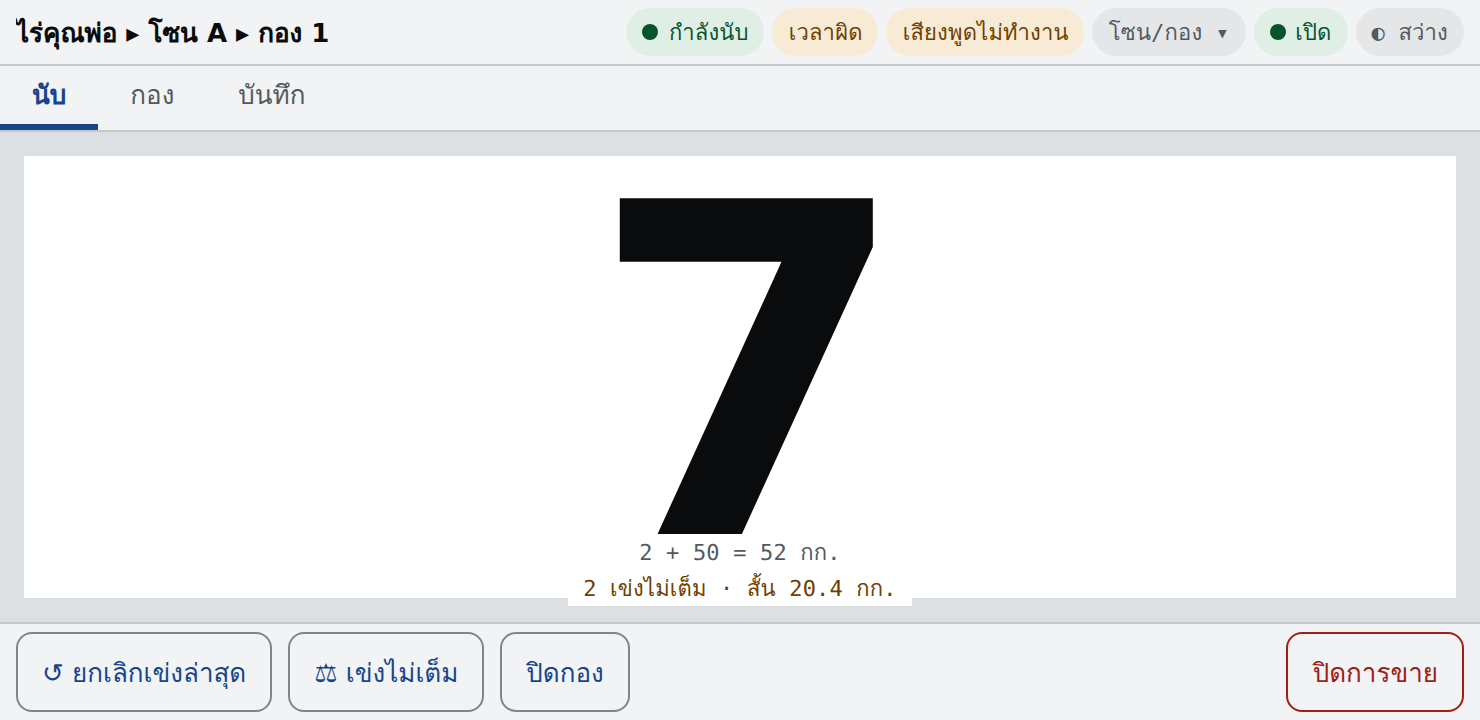
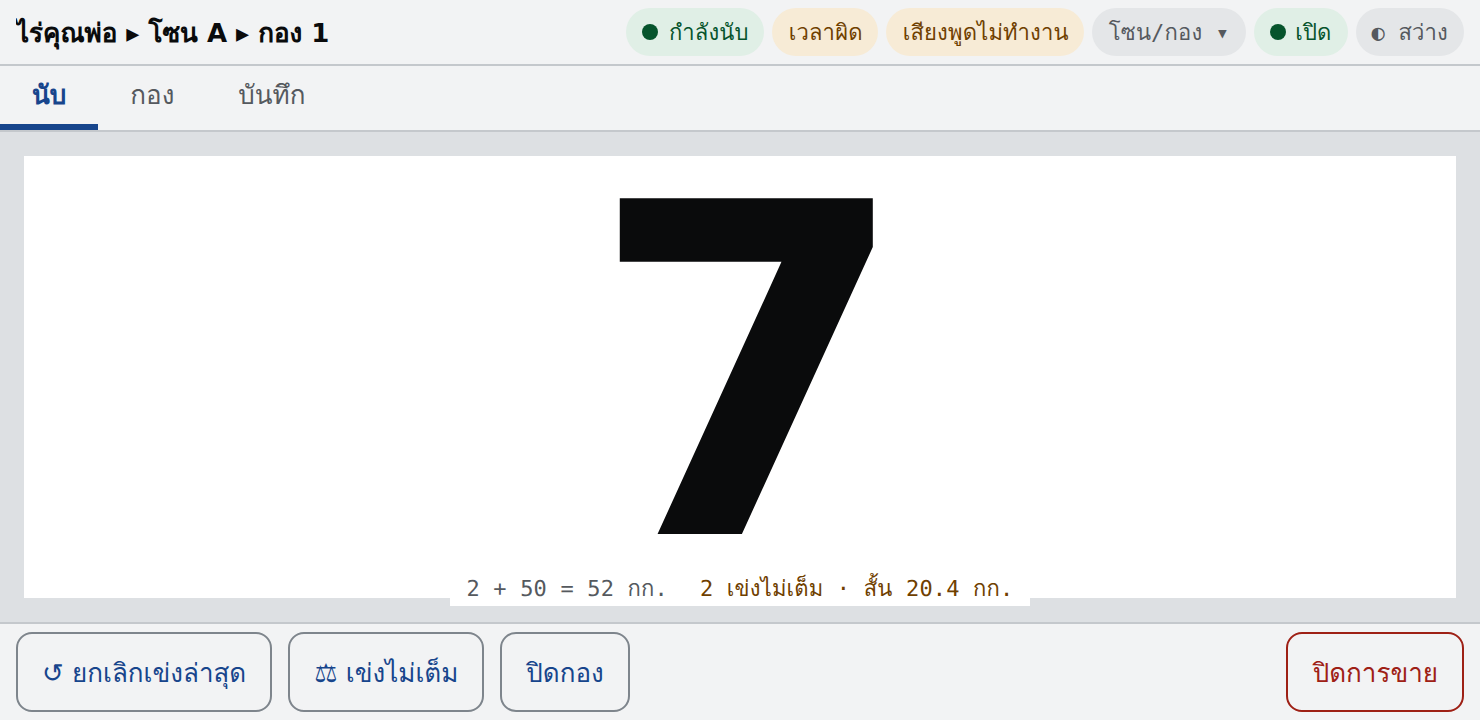
Keep the register clear of the public numeral
S22, review finding 1. The register strip sat under the caption, so a
second line ate the gap the numeral relies on rather than making room:
clearance to the numeral's ink fell to zero on a phone and went negative
on the low-end floor, while the numeral's own box never moved — which is
why the existing assertion could not see it.

The short figure now sits beside the caption on the same row. The strip
stays one line tall, so the gap is constant however many figures the
caller puts in it, and the numeral is not resized.

The new e2e assertion measures ink-to-register clearance at both phone
viewports and fails on the old layout.

Claude-Session: https://claude.ai/code/session_01XKcH1ASugu4kJm8z2HTGJh

Changed region(s): [[0.3108, 0.7639, 0.7149, 0.8556]]

diff --git a/e2e/short-basket.spec.ts b/e2e/short-basket.spec.ts
@@ -1,5 +1,6 @@
 import { expect, test } from '@playwright/test';
 
+import { tokens } from '../design/tokens';
 import { openPileScenario, seedSale, testSaleId } from './fixtures';
 
 /**
@@ -97,12 +98,15 @@ test('the operator register carries the pile short weight, summed, and gives it 
   await expect(line).toContainText('12.4');
   await expect(line).toContainText('1 เข่งไม่เต็ม');
 
-  // It shares the CAPTION's strip and nothing else (F-9.7): it sits under the
-  // caption, and the public numeral is the same size in the same place it was
-  // before the line existed — the line neither pushes nor resizes it.
+  // It shares the CAPTION's strip and nothing else (F-9.7): it sits BESIDE the
+  // caption on the same row (it used to sit under it, which cost the numeral
+  // its clearance — see the clearance test below), and the public numeral is
+  // the same size in the same place it was before the line existed, so the
+  // line neither pushes nor resizes it.
   const captionBox = (await page.getByTestId('caption').boundingBox())!;
   const lineBox = (await line.boundingBox())!;
-  expect(lineBox.y).toBeGreaterThanOrEqual(captionBox.y + captionBox.height);
+  expect(lineBox.x).toBeGreaterThanOrEqual(captionBox.x + captionBox.width);
+  expect(lineBox.y + lineBox.height).toBeLessThanOrEqual(captionBox.y + captionBox.height + 1);
   expect(await page.getByTestId('count').boundingBox()).toEqual(numeralBefore);
 
   await page.getByTestId('short').click();
@@ -126,4 +130,76 @@ test('the operator register carries the pile short weight, summed, and gives it 
   await page.getByTestId('undo').click();
   await page.getByTestId('undo-confirm').click();
   await expect(page.getByTestId('short-so-far')).toHaveCount(0);
+});
+
+/**
+ * S22 finding 1 — the register strip must MAKE room, not eat it.
+ *
+ * The assertion above (the numeral's box is identical before and after) is
+ * true and stays true even when the register grows, because what a second
+ * register line moves is the CAPTION, upward into the numeral's line-box
+ * slack — the box never budges. QA measured the consequence by hand: the gap
+ * between the numeral's ink and the caption fell from ~20px to ~2px at
+ * 844×390 and from ~18.5px to ~0.5px at the 740×360 floor. Nothing overlapped,
+ * so every existing check passed while F-9.7's safety margin was gone.
+ *
+ * So this measures the thing that actually moved: the clearance between the
+ * bottom of the numeral's INK (the drawn glyph, not its line box, which is
+ * taller and which the caption has always sat inside) and the top of the
+ * operator register. The floor is one micro line — the register's own font
+ * size — so the strip can gain a full line's worth of height from a larger OS
+ * text scale, or a face whose digits sit lower in the em box, before anything
+ * lands on the public numeral.
+ */
+async function registerClearance(page: import('@playwright/test').Page) {
+  return page.evaluate(() => {
+    const q = (id: string) => document.querySelector(`[data-testid="${id}"]`) as HTMLElement | null;
+    const numeral = q('count');
+    if (!numeral) throw new Error('no numeral');
+
+    // Where the ink ends. The element's box is the LINE box (lineHeight), so
+    // the baseline is derived from the face's own metrics and the ink's
+    // descent is read off the glyphs the browser actually drew.
+    const box = numeral.getBoundingClientRect();
+    const cs = getComputedStyle(numeral);
+    const ctx = document.createElement('canvas').getContext('2d')!;
+    ctx.font = `${cs.fontWeight} ${cs.fontSize} ${cs.fontFamily}`;
+    const m = ctx.measureText(numeral.textContent ?? '');
+    const contentHeight = m.fontBoundingBoxAscent + m.fontBoundingBoxDescent;
+    const baseline = box.top + (box.height - contentHeight) / 2 + m.fontBoundingBoxAscent;
+    const inkBottom = baseline + m.actualBoundingBoxDescent;
+
+    const strip = [q('caption'), q('short-so-far')]
+      .filter((el): el is HTMLElement => el !== null)
+      .map((el) => el.getBoundingClientRect().top);
+    if (strip.length === 0) throw new Error('no operator register');
+
+    return { inkBottom, registerTop: Math.min(...strip), clearance: Math.min(...strip) - inkBottom };
+  });
+}
+
+test('the register keeps its distance from the public numeral (F-9.7)', async ({ page }, testInfo) => {
+  await openCounter(page, 5);
+
+  const floor = tokens.font.size.micro; // one micro line of slack, justified above
+  const before = await registerClearance(page);
+  expect(before.clearance, `clearance with no short line (${testInfo.project.name})`).toBeGreaterThanOrEqual(floor);
+
+  // One short basket: the register gains a figure. It must take that space out
+  // of its own row, not out of the numeral's margin.
+  await page.getByTestId('short').click();
+  await page.getByTestId('short-reading-typed').fill('14.4');
+  await page.getByTestId('short-confirm').click();
+  await expect(page.getByTestId('short-so-far')).toBeVisible();
+
+  const after = await registerClearance(page);
+  expect(after.clearance, `clearance with the short line (${testInfo.project.name})`).toBeGreaterThanOrEqual(floor);
+
+  // And a second short basket (a wider line, more digits) changes nothing.
+  await page.getByTestId('short').click();
+  await page.getByTestId('short-reading-typed').fill('10');
+  await page.getByTestId('short-confirm').click();
+  await expect(page.getByTestId('short-so-far')).toContainText('20.4');
+  const summed = await registerClearance(page);
+  expect(summed.clearance, `clearance at two short baskets (${testInfo.project.name})`).toBeGreaterThanOrEqual(floor);
 });

diff --git a/src/components/HoldStage.tsx b/src/components/HoldStage.tsx
@@ -36,14 +36,16 @@ export interface HoldStageProps {
   /** Shown under the numeral — the operator register's expected reading. */
   caption: string;
   /**
-   * A second operator-register line, under the caption (S22).
+   * A second operator-register figure, BESIDE the caption (S22).
    *
    * A slot rather than another string prop: what goes here is the caller's
    * business (today, the pile's short-basket figure), and the stage stays a
    * component that knows about a numeral and a bezel. It shares the caption's
-   * absolutely-positioned strip at the bottom of the stage, so nothing it
-   * renders can push, resize or overlap the public numeral — F-9.7's space is
-   * not negotiable.
+   * absolutely-positioned strip at the bottom of the stage, on the same row,
+   * so nothing it renders can push, resize or overlap the public numeral, and
+   * nothing it renders makes the strip taller and eats into the numeral's
+   * clearance either — F-9.7's space is not negotiable. See the strip itself
+   * for what happened when this sat under the caption instead.
    */
   register?: ReactNode;
   /** When false, the stage does not accept holds (pile not ready, sale closed). */
@@ -461,7 +463,35 @@ export function HoldStage({
         {count}
       </Text>
 
-      <View style={{ position: 'absolute', bottom: t.space.sm, alignItems: 'center' }}>
+      {/*
+        The operator register: caption and, when the caller supplies one, a
+        second figure BESIDE it on the same row — never under it.
+
+        Under it was the first shape, and it quietly spent the numeral's
+        margin. The strip is bottom-anchored and the numeral is sized from
+        stage height alone (`byHeight`), so a second line does not push the
+        stage's contents apart — it grows upward into the gap between the
+        caption and the glyph. Measured: the clearance between the numeral's
+        ink and the caption fell from ~20px to ~0px at 844x390 and went
+        NEGATIVE at the 740x360 floor, with every existing check still green
+        because the numeral's own box never moved.
+
+        One row keeps the strip exactly one line tall however many figures the
+        caller puts in it, so the clearance is the same as it was before any of
+        them existed — and it needs no measurement of the strip, no feedback
+        into the numeral's size, and no risk to the 0.62 legibility floor,
+        which subtracting the strip's height from `byHeight` would have had.
+        Pinned by e2e (`the register keeps its distance from the public
+        numeral`) at both viewports.
+      */}
+      <View
+        style={{
+          position: 'absolute',
+          bottom: t.space.sm,
+          flexDirection: 'row',
+          alignItems: 'center',
+        }}
+      >
         <Text
           testID="caption"
           style={{

diff --git a/docs/stories/s22-short-basket-visible.md b/docs/stories/s22-short-basket-visible.md
@@ -1,14 +1,15 @@
 # Story: Short baskets are visible where the counting happens
 
-Status: Review — implemented 2026-09-03. Acceptance criteria drafted the same
-day by the PO agent from the owner's agreed epic-2 scope
-(`docs/epics/epic-2-second-field-round.md`, S22). Every check below is green
+Status: Review — implemented 2026-09-03, QA finding 1 closed the same day.
+Acceptance criteria drafted by the PO agent from the owner's agreed epic-2
+scope (`docs/epics/epic-2-second-field-round.md`, S22). Every check is green
 locally (tokens, contrast, typecheck, lint, vitest, jest, web export,
 playwright). Independent code review and QA browser pass completed
-2026-09-03 — **approved with findings**; every acceptance criterion passes
-in a real browser, and one medium finding (the register strip squeezes the
-caption against the public numeral at the 740×360 floor) is open for the
-dev/owner before this moves to `Done`. See **Code review** and **QA notes**.
+2026-09-03 — **approved with findings**; the one medium finding (the register
+strip squeezed the caption against the public numeral) is now **fixed and
+pinned by a test that fails against the pre-fix tree** — see finding 1's
+**Resolution** and the F-9.7 clearance section of Dev notes. Findings 2–5 are
+recorded as deferred, with reasons. Ready for the owner's `Done` call.
 
 ## Context
 
@@ -23,8 +24,8 @@ dev/owner before this moves to `Done`. See **Code review** and **QA notes**.
 - Touches: `src/app/sale/[id]/counter.tsx` (`HoldStage`'s `caption` prop,
   and `PilePanel`'s `Card title={pile.name}` stat block), `src/core/totals.ts`
   (read-only — no changes expected, see Out of scope). As implemented it also
-  touched `src/components/HoldStage.tsx` (one optional `register` slot under
-  the caption), `src/i18n/messages.ts`, `scripts/check-contrast.mjs` (the new
+  touched `src/components/HoldStage.tsx` (one optional `register` slot beside
+  the caption — under it, until QA finding 1), `src/i18n/messages.ts`, `scripts/check-contrast.mjs` (the new
   `warn`-on-`stage` pairing) and `e2e/fixtures.ts` — see Dev notes.
 
 ## Description
@@ -277,7 +278,8 @@ is untouched, no event kind changed, nothing new is appended.
 
 - `HoldStage` gained one optional prop, `register?: ReactNode` — a slot in
   the caption's absolutely-positioned strip at the bottom of the stage,
-  rendered under the caption. A slot rather than a second string prop
+  rendered beside the caption on the same row (it was rendered *under* the
+  caption as first written — see the F-9.7 clearance note below). A slot rather than a second string prop
   because what goes in it is the caller's business; the stage keeps knowing
   only about a numeral, a bezel and a caption. Because the strip is
   absolutely positioned, nothing rendered into it can push or resize the
@@ -323,6 +325,60 @@ is untouched, no event kind changed, nothing new is appended.
    either and no existing fixture produced a short basket in a pile that is
    still counting. Default is empty, so every existing caller sees the log
    it saw before.
+
+**F-9.7 clearance — closing QA finding 1 (2026-09-03).**
+
+*The remedy: the short figure now sits BESIDE the caption, on the caption
+strip's one row, not under it.* Both remedies QA named were legal under the
+AC ("beside/under"); this is the one that costs nothing. Subtracting the
+strip's measured height from `byHeight` means measuring the strip, feeding
+that measurement back into the numeral's size (a second convergence loop
+beside `advanceEm`'s), spending a few px of the numeral, and then re-checking
+the 0.62 legibility floor at both viewports — a mechanism, to solve a problem
+that only exists because the strip got taller. Keeping the strip one line
+tall removes the cause: the numeral is sized from stage height and the strip
+is bottom-anchored, so as long as the strip's height does not change, the gap
+it leaves cannot change either, however many figures the caller puts in it.
+KISS, and no new numbers to calibrate.
+
+*Test first, and it fails against the pre-fix tree.* `e2e/short-basket.spec.ts`
+gained `the register keeps its distance from the public numeral (F-9.7)`,
+which runs in both the `phone-landscape` (844×390) and `phone-landscape-floor`
+(740×360) projects. It measures what actually moved: the clearance between the
+bottom of the numeral's **ink** — derived from the face's own metrics and the
+drawn glyphs' `actualBoundingBoxDescent`, not the line box, which is taller and
+which the caption has always sat inside — and the top of the operator register,
+asserted with no short line, with one, and with two. Written before the fix,
+against `29b7fc3`, it failed at both viewports on the "one short basket" case:
+
+| viewport | no short line | one short basket (pre-fix) | one short basket (post-fix) | two (post-fix) |
+|---|---|---|---|---|
+| 844×390 | 17.96 px | **−0.04 px** ❌ | **17.96 px** ✅ | 22.0 px |
+| 740×360 floor | 13.51 px | **−4.49 px** ❌ | **13.51 px** ✅ | 17.51 px |
+
+(These are stricter than QA's hand measurement of ~2 px / ~0.5 px because
+this metric ends at the ink rather than at the reported box edge; the sign of
+the change is the same, and the pre-fix floor case is genuinely negative —
+the caption's box already overlapped the digit's ink.) Post-fix the clearance
+with a short line is **identical to the clearance without one**, which is the
+property the fix claims. Screenshots: `screenshots/s22/17-fix-clearance-phone.png`
+and `screenshots/s22/18-fix-clearance-floor.png`, both with two short baskets.
+
+*The floor the test asserts is one micro line* (`tokens.font.size.micro`,
+11 px — the register's own font size). Justification: the strip must be able
+to grow by a full line's worth — a larger OS text scale, a system face whose
+digits sit lower in the em box, a future third figure — and still not land on
+the public numeral. It is a floor, not a pin: the measured 13.5–22 px sit
+comfortably above it, so ordinary font-rendering differences between this
+machine and CI cannot make it flap.
+
+*The existing geometry assertion changed, deliberately.* `lineBox.y >=
+captionBox.y + captionBox.height` asserted the very layout that caused the
+finding, so it is now `lineBox.x >= captionBox.x + captionBox.width` plus a
+same-row bottom check. The numeral-box assertion (`count` box identical
+before and after) is **unchanged and still passes** — the remedy does not
+resize the numeral, which is the other reason it was preferred over the
+`byHeight` subtraction, which would have invalidated it.
 
 **Not done, deliberately.** No change to the Log tab, the public numeral,
 `gate.expected`, or the close/reopen row; S23's bulk-entry `short` events
@@ -405,6 +461,16 @@ will render through this same path with no further work here.
      belong to the owner/dev, and either one invalidates the e2e assertion
      `lineBox.y >= captionBox.y + captionBox.height`.
 
+     **Resolution (dev, 2026-09-03): fixed.** Taken the second way — the
+     short figure moved onto the caption's row instead of under it, so the
+     strip is one line tall again and the numeral's clearance is what it was
+     before S22 (17.96 px at 844×390, 13.51 px at the 740×360 floor —
+     measured, table in Dev notes). Pinned first by a new e2e test that fails
+     on `29b7fc3` at both viewports (−0.04 px and −4.49 px against an 11 px
+     floor). The `lineBox.y` assertion was replaced with the
+     beside-the-caption equivalent; the numeral-box assertion stands
+     unchanged, because this remedy does not touch the numeral's size.
+
   2. **[Low — cosmetic] `pile.netBreakdown` wraps at realistic pile
      weights, on both viewports.** A 26-basket pile with three short
      baskets renders `1,300 + 51.7 = 1,351.7 กก.` — which wraps onto a
@@ -418,6 +484,18 @@ will render through this same path with no further work here.
      shorter form (drop the unit from inside the breakdown, or put the
      breakdown on its own line under the total). Left for the dev/PO — it
      is a string/layout choice, not a defect in this diff's logic.
+
+     **Resolution (dev, 2026-09-03): deferred, not fixed.** Neither candidate
+     is small *and* obviously right. Dropping `กก.` from inside the breakdown
+     contradicts the AC that asked this row to read in `gate.expected`'s
+     shape, unit included, and leaves the pile card's headline weight as the
+     only figure on the screen with no unit on it. Putting the breakdown on
+     its own line under the total changes what the row *is* — a second row,
+     a second label, a Pile-tab layout decision — which is PO/design work,
+     not a defect fix. Nothing clips or overflows and no number is wrong;
+     the cost is legibility at four-digit weights. Left for the owner as a
+     string/layout call, deliberately not taken here so this change stays
+     the one thing that blocks `Done`.
 
   3. **[Low — string nit] The English `counter.shortSoFar` reads
      redundantly:** `'{n} short · {net} kg short'` renders as
@@ -451,6 +529,17 @@ will render through this same path with no further work here.
   2–4 are cosmetic/hygiene and can be taken or explicitly waived. QA made
   no code changes: the only working-tree edits from this review are this
   story file and `docs/stories/screenshots/s22/`.
+
+  **Dev follow-up, 2026-09-03.** Finding 1 is closed (see its Resolution and
+  Dev notes). Finding 2 is explicitly deferred with a reason (see its
+  Resolution). Findings 3–5 are left as they stand: 3 is an English-string
+  change to text the story itself specified, so it belongs to the PO with the
+  rest of the English catalogue and nobody runs the app in English yet; 4 is
+  suite behaviour (the e2e run rewrites every screenshot), unrelated to this
+  diff and not worth changing under a story; 5 is an observation about a
+  later story's scope, not a finding against this one. The working-tree
+  changes for this follow-up are `src/components/HoldStage.tsx`,
+  `e2e/short-basket.spec.ts`, this story file, and two new screenshots.
 
 ## QA notes
 
@@ -544,6 +633,12 @@ All under `docs/stories/screenshots/s22/`:
 `15-floor-29-baskets-count.png`, `15-phone-29-baskets-count.png`,
 `16-floor-pile-large-weights-wrap.png`,
 `16-phone-pile-large-weights.png` (the evidence for findings 1 and 2).
+
+**Finding 1, after the fix (dev, same day)** —
+`17-fix-clearance-phone.png` (844×390) and `18-fix-clearance-floor.png`
+(740×360), both showing two short baskets with the figure beside the caption
+on one row: `2 + 50 = 52 กก.   2 เข่งไม่เต็ม · สั้น 20.4 กก.` These
+supersede nothing above — 13–16 remain the record of the defect.
 
 ### What QA could not verify
 
